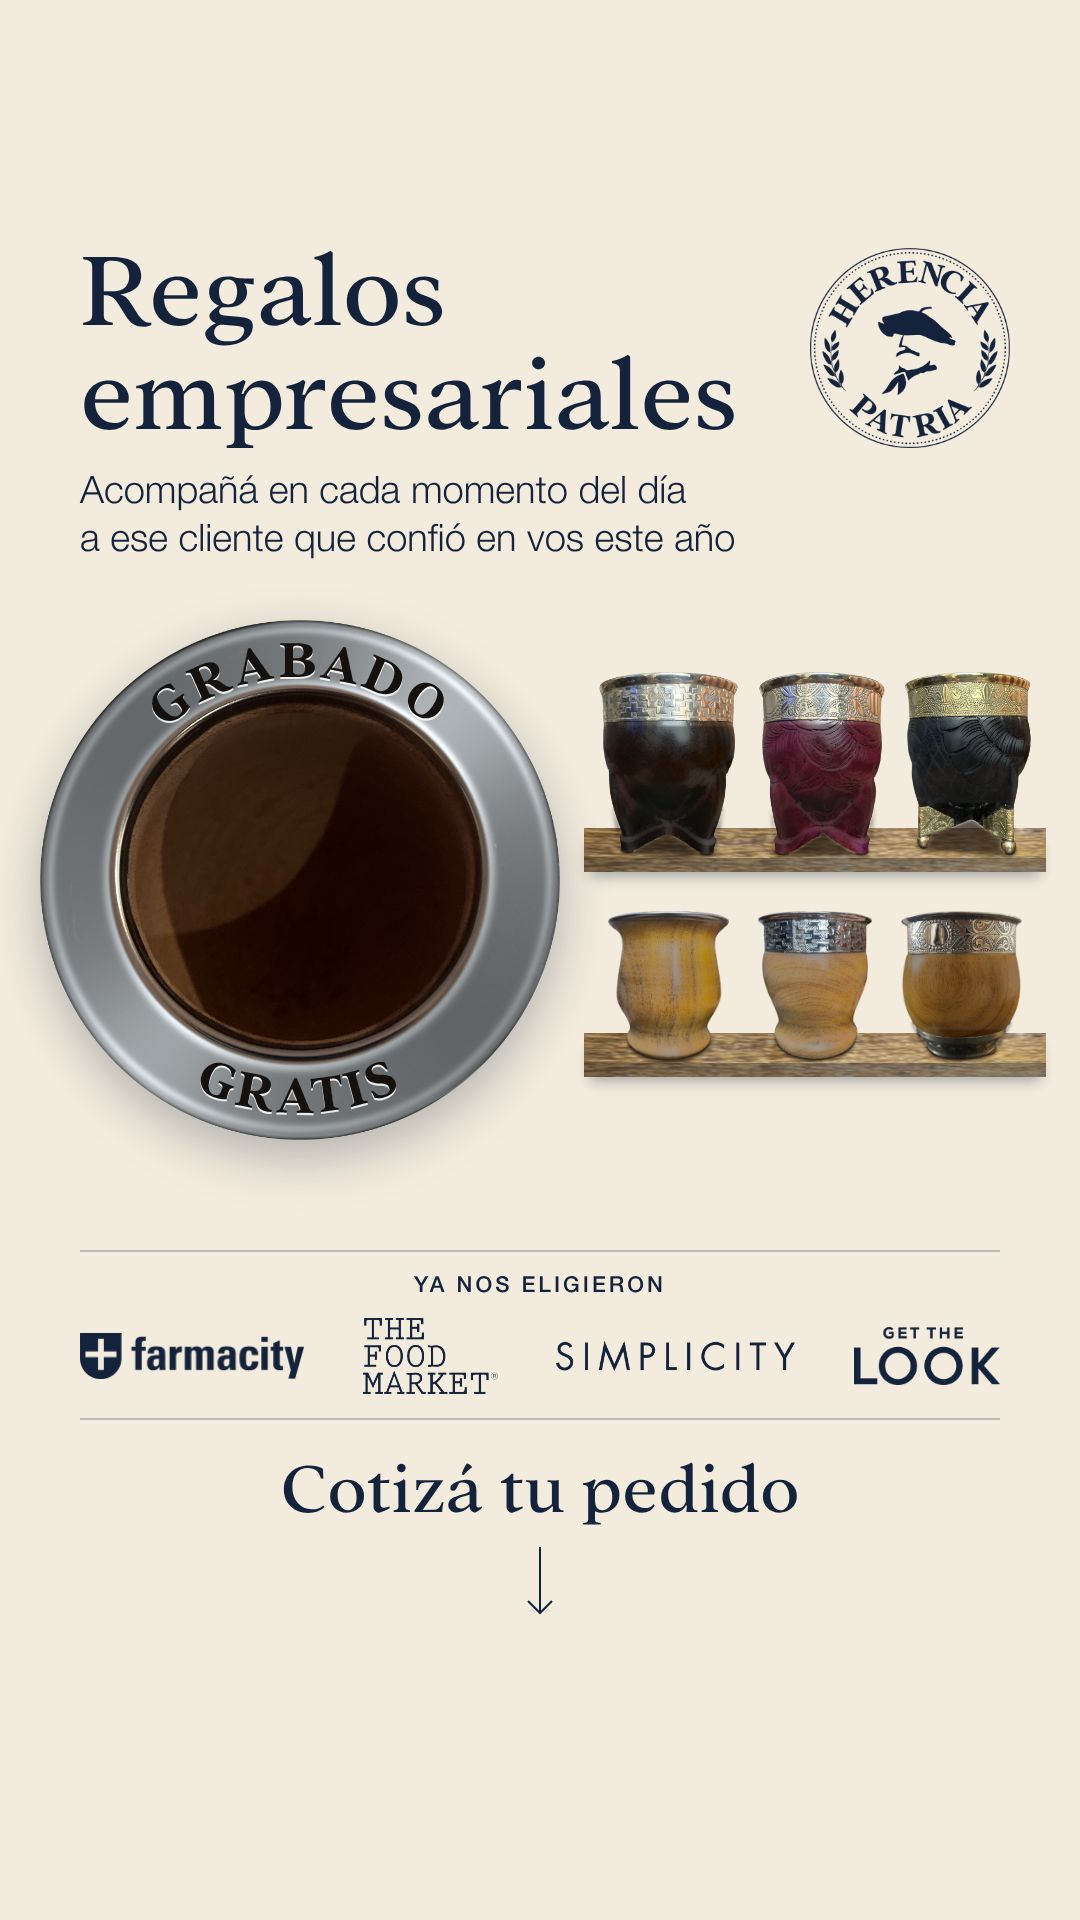
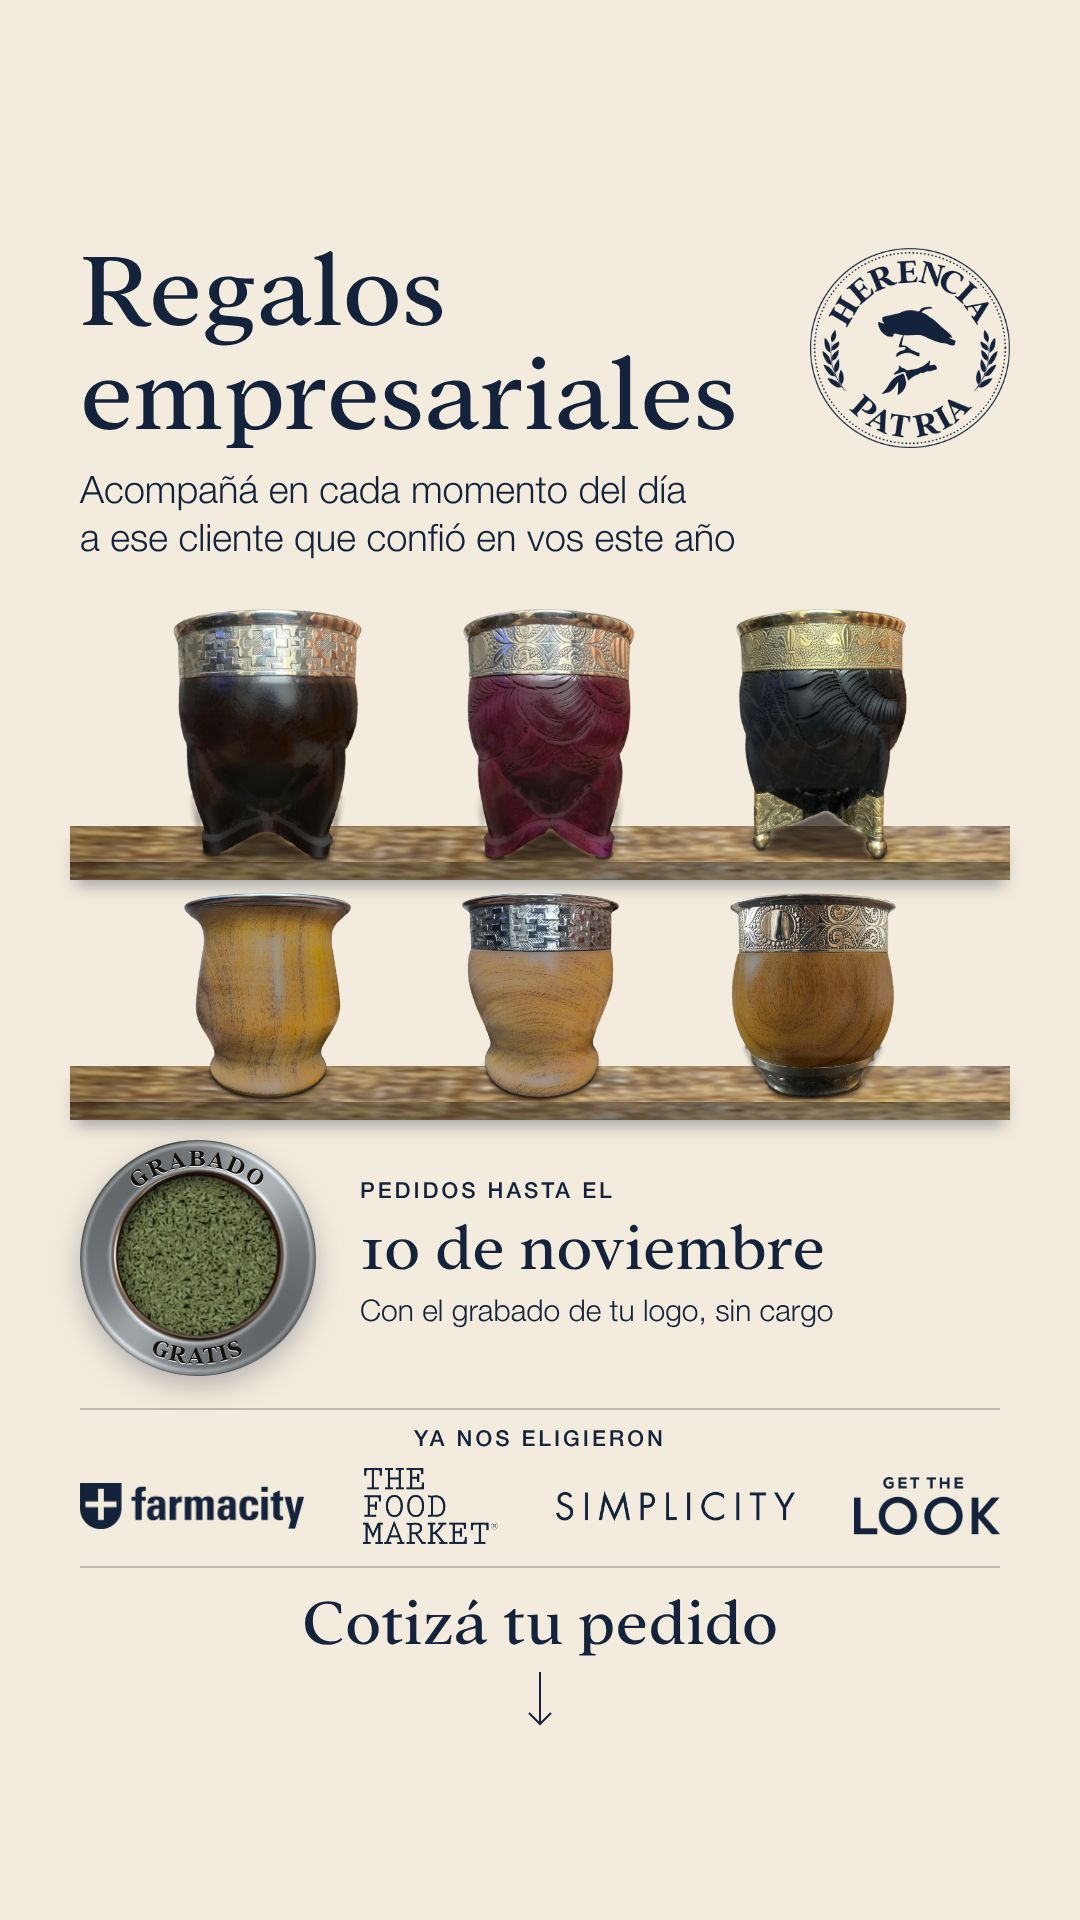
Historia empresarial B: mates protagonistas, aro con yerba y fecha límite
Los dos estantes a todo el ancho con los mates grandes; el aro (con yerba,
armada con la yerba real de la foto del torpedo) chico al lado de "Pedidos
hasta el 10 de noviembre" y el grabado sin cargo; abajo las marcas y el
llamado.

Claude-Session: https://claude.ai/code/session_012H3xPSmbqKoMmc2aK7okNH

Changed region(s): [[0.0306, 0.3125, 0.9778, 0.875], [0.7944, 0.6875, 0.9167, 0.8125], [0.0611, 0.75, 0.275, 0.8125]]

diff --git a/src/HerenciaPatria/HistoriaEmpresasLogo.tsx b/src/HerenciaPatria/HistoriaEmpresasLogo.tsx
@@ -2,29 +2,47 @@ import { AbsoluteFill, Img, staticFile } from "remotion";
 import { colors, fonts } from "./brand";
 
 // Historia de Instagram (1080x1920) para los pedidos empresariales de fin
-// de año que muestra el beneficio en el producto: el aro de la boca de un
-// mate, grande, con "grabado gratis" grabado en el metal, justo donde va el
-// logo de la empresa. Al lado, más chicos, otros modelos; abajo
-// quiénes ya los eligieron y el llamado con una flecha hacia abajo.
-// Crema y azul, Addington y Helvetica Neue, como el resto de la marca. Lo que
-// hay que leer va entre 230 y 1620: Instagram tapa arriba el perfil y abajo
-// la respuesta o el botón del anuncio.
+// de año. Los protagonistas son los mates: seis modelos reales en dos
+// estantes de madera a todo el ancho (arriba los de calabaza, apenas más
+// grandes; abajo los de algarrobo). Debajo, chico, el aro de la boca de un
+// mate con yerba y "grabado gratis" grabado en el metal (donde va el logo de
+// la empresa), y al lado la fecha límite. Abajo, quiénes ya los eligieron y
+// el llamado con una flecha hacia abajo. Crema y azul, Addington y Helvetica
+// Neue, como el resto de la marca. Lo que hay que leer va entre 230 y 1700:
+// Instagram tapa arriba el perfil y abajo la respuesta o el botón del anuncio.
 
 const margen = 80;
 
 export const HistoriaEmpresasLogo: React.FC<{
   readonly titulo: string[];
   readonly bajada: string[];
-  // El mate grande, visto desde arriba y recortado en círculo justo en el
-  // borde del aro (la foto real, sin el fondo), y lo que va grabado en el
-  // aro: una palabra arriba y otra abajo.
-  readonly heroe: string;
+  // Arriba los de calabaza, abajo los de algarrobo (tres y tres): recortes con
+  // su sombra de contacto debajo (tools/recorte_mate.py).
+  readonly mates: string[];
+  // El aro: la boca de un mate vista desde arriba, recortada en círculo justo
+  // en el borde (foto real, con yerba), y lo que va grabado en el metal: una
+  // palabra arriba y otra abajo.
+  readonly aro: string;
   readonly grabado: [arriba: string, abajo: string];
-  readonly otros: string[];
+  // La fecha límite: lo chico de arriba y lo grande.
+  readonly urgencia: [string, string];
+  // El beneficio dicho en palabras, bajo la fecha.
+  readonly beneficio: string;
   readonly confianza: string;
   readonly logos: [archivo: string, alto: number][];
   readonly accion: string;
-}> = ({ titulo, bajada, heroe, grabado, otros, confianza, logos, accion }) => {
+}> = ({
+  titulo,
+  bajada,
+  mates,
+  aro,
+  grabado,
+  urgencia,
+  beneficio,
+  confianza,
+  logos,
+  accion,
+}) => {
   const rotulo: React.CSSProperties = {
     fontFamily: fonts.sans,
     fontWeight: 500,
@@ -40,18 +58,28 @@ export const HistoriaEmpresasLogo: React.FC<{
     background: colors.azul,
     opacity: 0.25,
   };
-  // El mate grande, a la izquierda.
-  const lado = 520;
-  const x0 = 40;
-  const y0 = 620;
-  // Los otros modelos: una grilla chica a la derecha del aro.
-  // Alto de los mates chicos por fila: los de calabaza (arriba) son apenas
-  // más grandes que los de algarrobo (abajo), como en la realidad.
-  const altoFila = [182, 148];
+  // Los estantes: dónde apoyan los mates de cada fila y su alto (los de
+  // calabaza son algo más grandes que los de algarrobo, como en la realidad).
+  const apoyos = [852, 1092];
+  const altoFila = [248, 204];
   // Los recortes traen debajo de la base su sombra de contacto: 24 px más
-  // cada 700 de mate (ver tools/recorte_mate.py).
+  // cada 700 de mate.
   const conPie = 724 / 700;
-  const xGrilla = 570;
+  // El aro, chico, abajo a la izquierda.
+  const ladoAro = 236;
+  const yAro = 1140;
+  const madera = (alto: number, desde: number, luz: number) => (
+    <div style={{ height: alto, overflow: "hidden" }}>
+      <Img
+        src={staticFile("tabla-madera.jpg")}
+        style={{
+          width: "100%",
+          marginTop: -desde,
+          filter: `brightness(${luz})`,
+        }}
+      />
+    </div>
+  );
   return (
     <AbsoluteFill
       style={{
@@ -92,29 +120,70 @@ export const HistoriaEmpresasLogo: React.FC<{
           <div key={l}>{l}</div>
         ))}
       </div>
+      {/* Los mates en dos estantes de madera fina (la madera real del
+          ranchero, con la veta acostada y el color apagado), apoyados sobre
+          la cara de arriba de la tabla. */}
+      {[mates.slice(0, 3), mates.slice(3)].map((fila, i) => {
+        const apoyo = apoyos[i];
+        const alto = altoFila[i];
+        return (
+          <div key={fila.join()}>
+            <div
+              style={{
+                position: "absolute",
+                top: apoyo - 26,
+                left: margen - 10,
+                right: margen - 10,
+                boxShadow: "0 12px 16px -6px rgba(20,35,59,0.35)",
+              }}
+            >
+              {madera(36, 0, 1.08)}
+              {madera(18, 60, 0.7)}
+            </div>
+            <div
+              style={{
+                position: "absolute",
+                top: apoyo + 5 - alto,
+                left: margen,
+                right: margen,
+                height: alto * conPie,
+                display: "flex",
+                justifyContent: "space-evenly",
+                alignItems: "flex-end",
+              }}
+            >
+              {fila.map((src) => (
+                <Img
+                  key={src}
+                  src={staticFile(src)}
+                  style={{ display: "block", height: alto * conPie }}
+                />
+              ))}
+            </div>
+          </div>
+        );
+      })}
+      {/* El aro con el grabado, en curva arriba y abajo, como tallado en el
+          metal. Coordenadas de la foto (948 px). */}
       <Img
-        src={staticFile(heroe)}
+        src={staticFile(aro)}
         style={{
           position: "absolute",
-          top: y0,
-          left: x0,
-          width: lado,
-          height: lado,
-          filter: "drop-shadow(0 18px 24px rgba(20,35,59,0.28))",
+          top: yAro,
+          left: margen,
+          width: ladoAro,
+          height: ladoAro,
+          filter: "drop-shadow(0 10px 14px rgba(20,35,59,0.28))",
         }}
       />
-      {/* El grabado en el aro, una palabra arriba y otra abajo (las dos
-          derechas), grandes y en negrita para que se lean en el teléfono:
-          letras oscuras con un brillo apenas corrido hacia abajo, como
-          talladas en el metal. Coordenadas de la foto (948 px). */}
       <svg
         viewBox="0 0 948 948"
         style={{
           position: "absolute",
-          top: y0,
-          left: x0,
-          width: lado,
-          height: lado,
+          top: yAro,
+          left: margen,
+          width: ladoAro,
+          height: ladoAro,
         }}
       >
         <defs>
@@ -149,70 +218,36 @@ export const HistoriaEmpresasLogo: React.FC<{
           )),
         )}
       </svg>
-      {/* Los otros modelos: dos filas de tres, cada una sobre una tabla de
-          madera fina (la madera real del ranchero, con la veta acostada y el
-          color apagado). Los mates van recortados (fondo transparente, la
-          base a una altura fija, con su sombra de contacto debajo) y apoyados
-          sobre la cara de arriba de la tabla. */}
-      {[otros.slice(0, 3), otros.slice(3)].map((fila, i) => {
-        const apoyo = y0 + lado / 2 - 30 + i * 205;
-        const altoChico = altoFila[i];
-        const madera = (alto: number, desde: number, luz: number) => (
-          <div style={{ height: alto, overflow: "hidden" }}>
-            <Img
-              src={staticFile("tabla-madera.jpg")}
-              style={{
-                width: "100%",
-                marginTop: -desde,
-                filter: `brightness(${luz})`,
-              }}
-            />
-          </div>
-        );
-        return (
-          <div key={fila.join()}>
-            <div
-              style={{
-                position: "absolute",
-                top: apoyo - 22,
-                left: xGrilla + 14,
-                right: 34,
-                boxShadow: "0 10px 14px -6px rgba(20,35,59,0.35)",
-              }}
-            >
-              {madera(30, 0, 1.08)}
-              {madera(14, 60, 0.7)}
-            </div>
-            <div
-              style={{
-                position: "absolute",
-                // La base apenas metida en la cara de arriba de la tabla.
-                top: apoyo + 4 - altoChico,
-                left: xGrilla + 14,
-                right: 34,
-                height: altoChico * conPie,
-                display: "flex",
-                justifyContent: "space-evenly",
-                alignItems: "flex-end",
-              }}
-            >
-              {fila.map((src) => (
-                <Img
-                  key={src}
-                  src={staticFile(src)}
-                  style={{ display: "block", height: altoChico * conPie }}
-                />
-              ))}
-            </div>
-          </div>
-        );
-      })}
-      <div style={{ ...filete, top: 1250 }} />
+      {/* La fecha límite, al lado del aro. */}
+      <div
+        style={{
+          position: "absolute",
+          top: yAro + 40,
+          left: margen + ladoAro + 44,
+          right: margen,
+        }}
+      >
+        <div style={rotulo}>{urgencia[0]}</div>
+        <div style={{ fontSize: 66, lineHeight: 1.05, marginTop: 8 }}>
+          {urgencia[1]}
+        </div>
+        <div
+          style={{
+            fontFamily: fonts.sans,
+            fontWeight: 300,
+            fontSize: 30,
+            marginTop: 14,
+          }}
+        >
+          {beneficio}
+        </div>
+      </div>
+      <div style={{ ...filete, top: 1408 }} />
       {/* Quiénes ya los eligieron: los logos en el azul de la marca. */}
       <div
         style={{
           position: "absolute",
-          top: 1274,
+          top: 1428,
           left: 0,
           right: 0,
           textAlign: "center",
@@ -224,7 +259,7 @@ export const HistoriaEmpresasLogo: React.FC<{
       <div
         style={{
           position: "absolute",
-          top: 1316,
+          top: 1466,
           left: margen,
           right: margen,
           height: 80,
@@ -241,12 +276,12 @@ export const HistoriaEmpresasLogo: React.FC<{
           />
         ))}
       </div>
-      <div style={{ ...filete, top: 1418 }} />
+      <div style={{ ...filete, top: 1566 }} />
       {/* El llamado, centrado, con una flecha hacia abajo. Texto, no botón. */}
       <div
         style={{
           position: "absolute",
-          top: 1446,
+          top: 1584,
           left: 0,
           right: 0,
           display: "flex",
@@ -254,15 +289,15 @@ export const HistoriaEmpresasLogo: React.FC<{
           alignItems: "center",
         }}
       >
-        <div style={{ fontSize: 72 }}>{accion}</div>
+        <div style={{ fontSize: 66 }}>{accion}</div>
         <svg
-          width={28}
-          height={70}
-          viewBox="0 0 28 70"
-          style={{ marginTop: 14 }}
+          width={26}
+          height={56}
+          viewBox="0 0 26 56"
+          style={{ marginTop: 8 }}
         >
           <path
-            d="M 14 0 V 66 M 2 54 L 14 66 L 26 54"
+            d="M 13 0 V 52 M 2 41 L 13 52 L 24 41"
             fill="none"
             stroke={colors.azul}
             strokeWidth={2}

diff --git a/src/Root.tsx b/src/Root.tsx
@@ -435,11 +435,9 @@ export const RemotionRoot: React.FC = () => {
             "Acompañá en cada momento del día",
             "a ese cliente que confió en vos este año",
           ],
-          heroe: "mate-boca-arriba.png",
-          grabado: ["Grabado", "gratis"] as [string, string],
           // Arriba los de calabaza (simple, repujado y base bolita); abajo
           // los de algarrobo (ranchero, imperial e imperial con base).
-          otros: [
+          mates: [
             "recortes/calabaza-simple.png",
             "recortes/calabaza-repujado.png",
             "recortes/calabaza-base-bolita.png",
@@ -447,6 +445,10 @@ export const RemotionRoot: React.FC = () => {
             "recortes/algarrobo-imperial.png",
             "recortes/algarrobo-imperial-con-base.png",
           ],
+          aro: "mate-boca-arriba.png",
+          grabado: ["Grabado", "gratis"] as [string, string],
+          urgencia: ["Pedidos hasta el", "10 de noviembre"] as [string, string],
+          beneficio: "Con el grabado de tu logo, sin cargo",
           confianza: "Ya nos eligieron",
           logos: [
             ["clientes/farmacity.png", 46],
